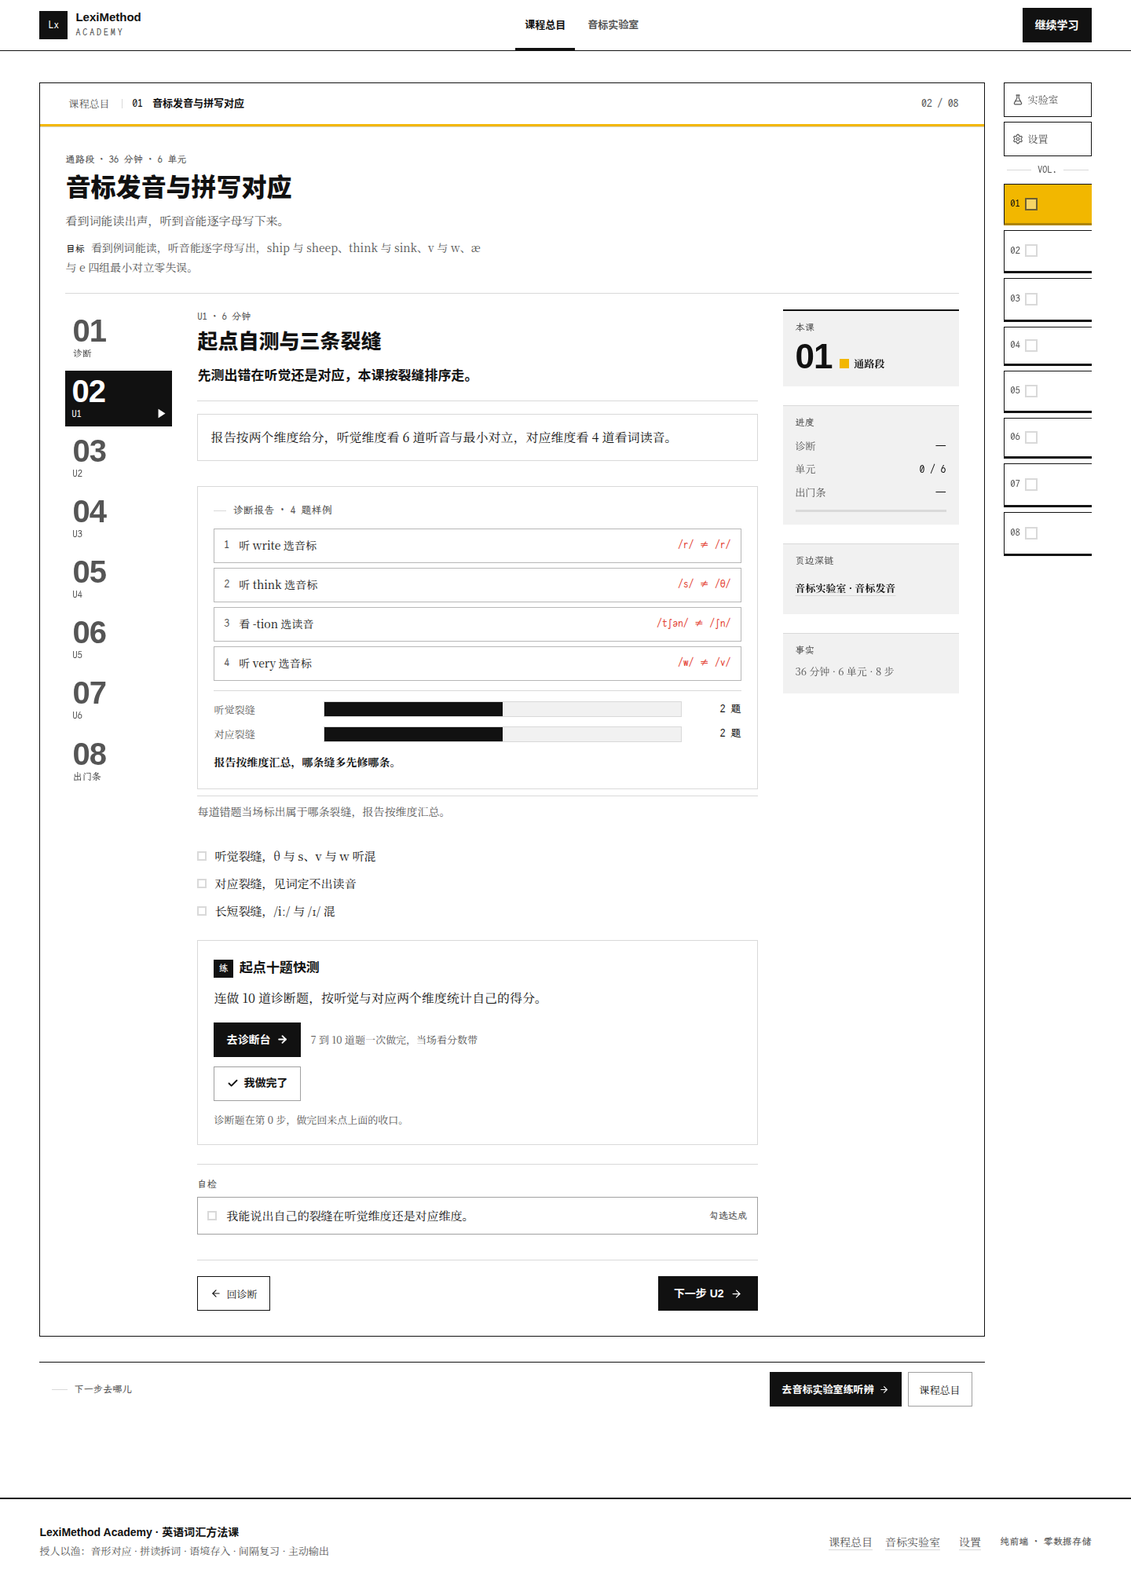
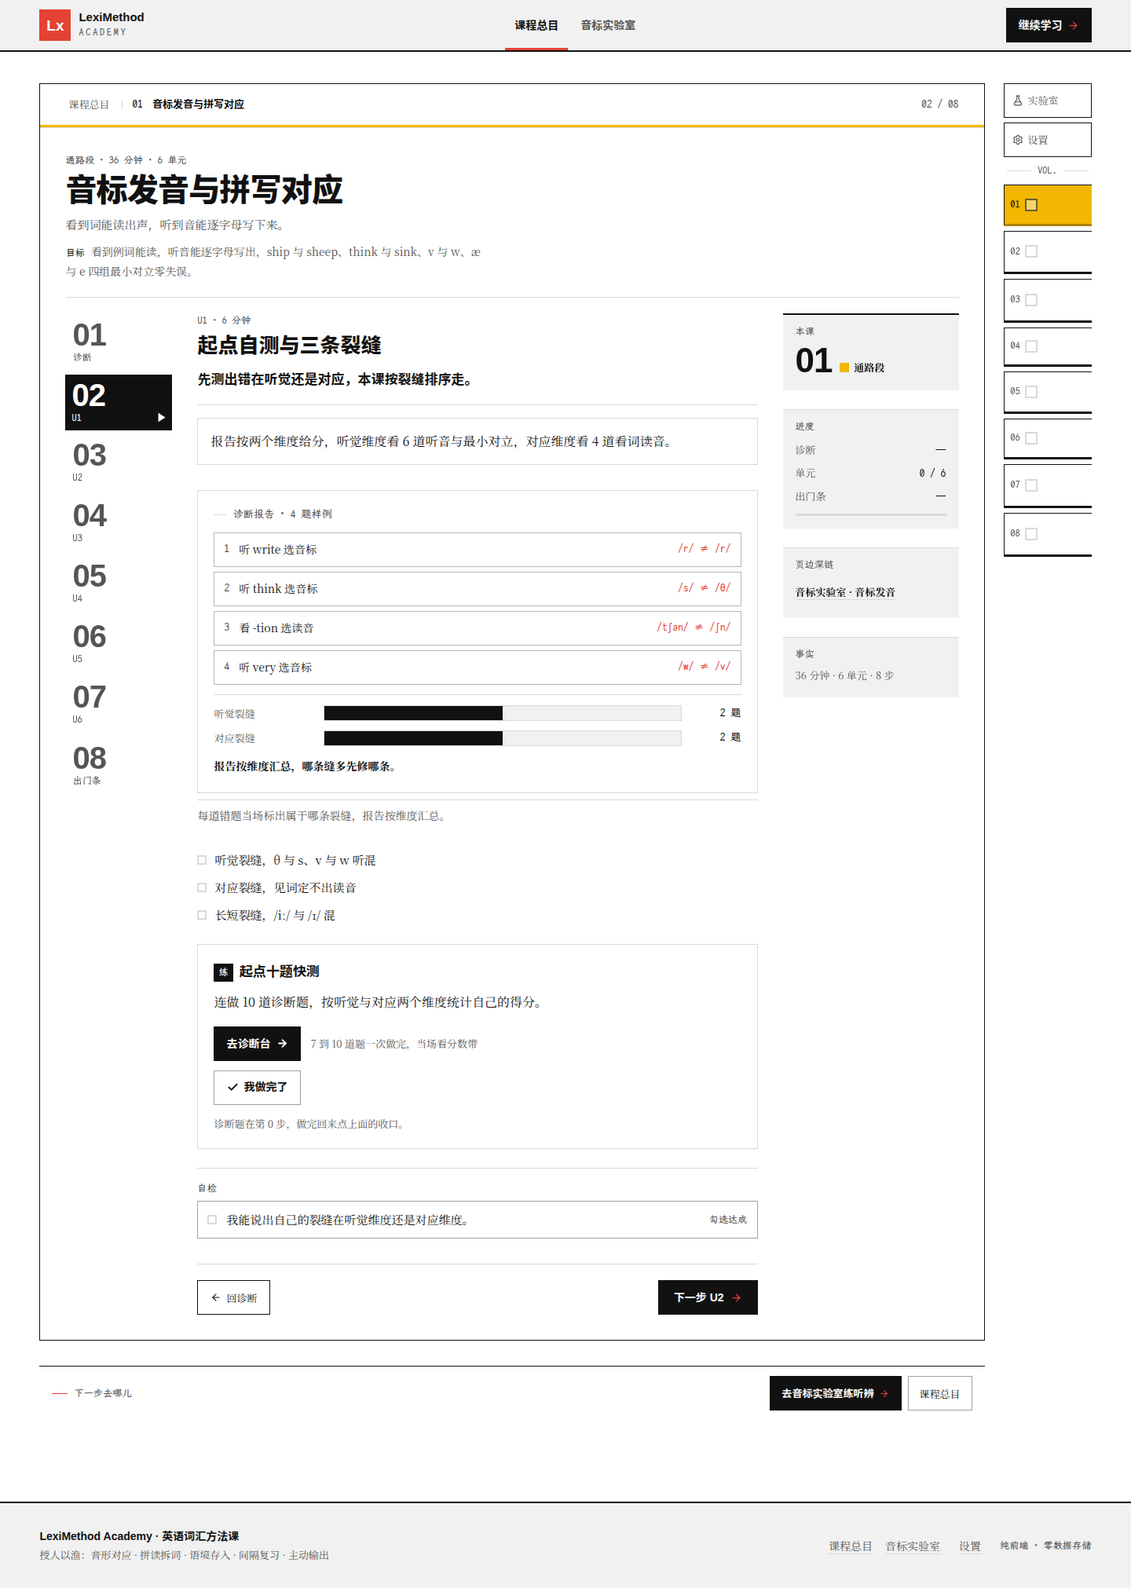
feat: 首屏焦点层——黑块锚点、灰场分区与指路红双域
- 方向契约先行：briefs 新增「焦点层修订」节（用户四策略全批：黑块锚点/红色指路/灰场分区/纯排印层级）
- 黑块锚点：总目首屏整宽 #111 继续面板，顶缘 deepen(段色) 8px，巨号课号 64/72px，白底按钮红箭头，intro-next 原位保留
- 纯排印：总目 h1 海报级 44→64→72px（-0.03em），章题 32px，行内课号 18px，课程页 h1 40px，主导航 14px
- 灰场分区：报头/移动菜单/页脚/底导/分段章带铺 #F1F1F1，报头下线与页脚压顶 2px 墨，底导去收窄满宽，白行浮灰场
- 指路红双域：字标红方块反白 Lx（19px/800 大字级 4.12:1）、导航与底导当前 3px 红标、章节带缺省红细条、全站主行动红箭头（黑底 4.44:1）；勘误域照旧，红不作按钮实底
- 终审三轮：四面 resolved 零回归，disposition ship；门禁 tsc 0 · accept 61/61 · audit:floor 全零 · 课程 0/0 · 数据 3926 · build 2.68s · 体积达标 · smoke 通过

diff --git a/src/pages/MethodList.tsx b/src/pages/MethodList.tsx
@@ -68,6 +68,16 @@ export default function MethodList() {
       ? `/methods/${courses[0].id}?step=1`
       : `/methods/${nextCourse.id}?step=${target.step}`;
 
+  /** 黑块面板的机器嗓音前缀：诊断 / 单元 / 出门条 / 已收口 */
+  const stepText =
+    target.kind === 'diag'
+      ? '开场诊断'
+      : target.kind === 'unit'
+        ? `单元 U${target.step}`
+        : target.kind === 'exit'
+          ? '出门条'
+          : '已收口';
+
   const grouped = STAGE_ORDER.map((stage) => ({
     stage,
     list: courses.filter((c) => c.stage === stage),
@@ -91,40 +101,50 @@ export default function MethodList() {
       />
 
       <div className="px-5 py-6 md:px-8 md:py-8">
-        {/* 首屏题名：文档本身即第一屏 */}
+        {/* 首屏题名：海报级字级，文档本身即第一屏 */}
         <header className="border-b border-rule pb-5">
           <p className="machine text-[12px] text-ink2">
             8 门课 · 48 单元 · 约 {totalMin} 分钟
           </p>
-          <h1 className="mt-1.5 font-display text-[26px] font-extrabold leading-tight text-ink md:text-[32px]">
+          <h1 className="mt-2 font-display text-[44px] font-extrabold leading-[0.95] tracking-[-0.03em] text-balance text-ink md:text-[64px] xl:text-[72px]">
             课程总目
           </h1>
-          <p className="mt-2 max-w-[68ch] text-[15px] leading-[1.85] text-ink2">
+          <p className="mt-3 max-w-[68ch] text-[15px] leading-[1.85] text-ink2">
             八门课沿一条路径排开。每门课先做开场诊断，再走五到六个短单元，最后交一张出门条，学完即收口。
           </p>
         </header>
 
-        {/* 本页唯一主行动 */}
-        <div className="mt-5 flex flex-wrap items-center gap-x-6 gap-y-4 border-b border-rule pb-5">
-          <Link
-            to={primaryTo}
-            onClick={() => playSfx('click')}
-            data-testid="intro-next"
-            className="inline-flex min-h-[44px] items-center gap-2 bg-ink px-5 py-2.5 font-display text-sm font-bold text-milk transition-colors hover:bg-ink2 active:translate-y-px"
-          >
-            {primaryLabel(nextCourse, target)} <ArrowRight size={15} aria-hidden />
-          </Link>
-          <div className="min-w-0">
-            <p className="machine text-[12px] text-ink2">
-              {String(nextCourse.order).padStart(2, '0')} · {nextCourse.durationMin} 分钟 ·{' '}
-              {nextCourse.units.length} 单元
-            </p>
-            <p className="truncate font-display text-sm font-bold text-ink">{nextCourse.title}</p>
+        {/* 黑块锚点：全页唯一主导色场，眼睛进门的落点——顶缘段色细条 + 巨号课号 + 白底按钮红箭头 */}
+        <section aria-label="继续学习" className="mt-5 bg-ink text-milk">
+          <div
+            aria-hidden
+            className="h-2"
+            style={{ background: deepen(STAGE_META[nextCourse.stage].hue) }}
+          />
+          <div className="flex flex-col gap-4 px-5 py-5 sm:flex-row sm:items-center sm:justify-between sm:gap-8 md:px-6">
+            <div className="flex min-w-0 items-center gap-4 md:gap-5">
+              <span className="font-display text-[64px] font-extrabold leading-none tracking-[-0.03em] tabular-nums md:text-[72px]">
+                {String(nextCourse.order).padStart(2, '0')}
+              </span>
+              <div className="min-w-0">
+                <p className="machine text-[12px] text-milk/70">
+                  {stepText} · {nextCourse.durationMin} 分钟 · {nextCourse.units.length} 单元
+                </p>
+                <p className="truncate font-display text-lg font-bold text-milk md:text-[26px]">
+                  {nextCourse.title}
+                </p>
+              </div>
+            </div>
+            <Link
+              to={primaryTo}
+              onClick={() => playSfx('click')}
+              data-testid="intro-next"
+              className="inline-flex min-h-[44px] w-full items-center justify-center gap-2 bg-milk px-5 py-2.5 font-display text-sm font-bold text-ink transition-colors hover:bg-rule active:translate-y-px sm:w-auto"
+            >
+              {primaryLabel(nextCourse, target)} <ArrowRight size={15} className="text-errata" aria-hidden />
+            </Link>
           </div>
-          <p className="machine ml-auto text-[12px] text-ink2">
-            已收口 {doneCount} / {courses.length}
-          </p>
-        </div>
+        </section>
 
         {/* 四段路径分章带（段色细条点缀）+ 课程行 */}
         {grouped.map(({ stage, list }) => {
@@ -132,14 +152,14 @@ export default function MethodList() {
           const stageMin = list.reduce((a, c) => a + c.durationMin, 0);
           return (
             <section key={stage} aria-label={`${meta.label}段课程`} className="mt-8">
-              {/* 分章带：白底墨字，段色只上左侧方片与下缘 3px 细条；章题必须压过行题 */}
+              {/* 分章带：灰场底墨字（图底分层），段色只上左侧方片与下缘 3px 细条；章题必须压过行题 */}
               <div
-                className="flex flex-wrap items-baseline justify-between gap-x-4 gap-y-1 bg-leaf px-4 py-3"
+                className="flex flex-wrap items-baseline justify-between gap-x-4 gap-y-1 bg-under px-4 py-3"
                 style={{ borderBottom: `3px solid ${deepen(meta.hue)}` }}
               >
                 <span className="flex items-baseline gap-2.5">
                   <span aria-hidden className="h-3 w-3 translate-y-px" style={{ background: meta.hue }} />
-                  <h2 className="font-display text-2xl font-extrabold leading-none text-ink">
+                  <h2 className="font-display text-[26px] font-extrabold leading-none tracking-[-0.02em] text-ink md:text-[32px]">
                     {meta.label}
                   </h2>
                 </span>
@@ -167,7 +187,7 @@ export default function MethodList() {
                         aria-label={`第 ${c.order} 课 ${c.title}，${status}`}
                       >
                         <div className="flex flex-wrap items-center gap-x-3 gap-y-2">
-                          <span className="machine text-[15px] font-bold text-ink" aria-hidden>
+                          <span className="machine text-[18px] font-bold text-ink" aria-hidden>
                             {String(c.order).padStart(2, '0')}
                           </span>
                           <h3 className="font-display text-[17px] font-bold leading-snug text-ink md:text-[19px]">

diff --git a/src/components/layout/AppShell.tsx b/src/components/layout/AppShell.tsx
@@ -1,6 +1,6 @@
 import { useEffect, useState } from 'react';
 import { Link, useLocation } from 'react-router-dom';
-import { BookOpen, AudioLines, Settings as SettingsIcon, Menu, X } from 'lucide-react';
+import { BookOpen, AudioLines, Settings as SettingsIcon, Menu, X, ArrowRight } from 'lucide-react';
 import type { LucideIcon } from 'lucide-react';
 import BottomNav from '@/components/layout/BottomNav';
 import { playSfx } from '@/hooks/useSfx';
@@ -17,7 +17,7 @@ export const NAV_ITEMS: NavItem[] = [
 /** 全部目的地：移动菜单与页脚使用 */
 export const ALL_NAV_ITEMS: NavItem[] = [...NAV_ITEMS, { to: '/settings', label: '设置', icon: SettingsIcon }];
 
-/** 字标印记：实心墨方反白 Lx（瑞士印记，方正如铅字块） */
+/** 字标印记：信号红方块反白 Lx（进门第一眼的指路红标，字级 ≥19px 特粗走大字级 3:1） */
 function Logo() {
   return (
     <Link
@@ -25,8 +25,8 @@ function Logo() {
       className="group flex min-h-[44px] min-w-[44px] items-center justify-center gap-2.5"
       aria-label="LexiMethod Academy 课程总目"
     >
-      <span className="flex h-9 w-9 items-center justify-center bg-ink">
-        <span className="machine text-[13px] font-bold text-milk">Lx</span>
+      <span className="flex h-10 w-10 items-center justify-center bg-errata">
+        <span className="font-display text-[19px] font-extrabold leading-none text-milk">Lx</span>
       </span>
       <span className="hidden flex-col leading-tight sm:flex">
         <span className="font-display text-[15px] font-bold text-ink underline decoration-transparent decoration-2 underline-offset-4 transition-colors group-hover:decoration-ink">
@@ -54,8 +54,8 @@ export default function AppShell({ children }: { children: React.ReactNode }) {
 
   return (
     <div className="relative z-10 flex min-h-screen flex-col pb-[66px] lg:pb-0">
-      {/* 报头：白纸地与页面同层，下缘 1px 实黑线（瑞士报头）；当前项 3px 墨条（形状通道） */}
-      <header className="paper-chrome sticky top-0 z-50 border-b border-ink bg-milk">
+      {/* 报头：灰场地带（图底分层）+ 下缘 2px 实黑线；当前项 3px 红标（指路） */}
+      <header className="paper-chrome sticky top-0 z-50 border-b-2 border-ink bg-under">
         <div className="container-page flex h-16 items-center justify-between gap-4">
           <div className="flex items-center gap-3">
             <Logo />
@@ -69,26 +69,27 @@ export default function AppShell({ children }: { children: React.ReactNode }) {
                 <Link
                   key={item.to}
                   to={item.to}
-                  className={`relative flex h-full items-center whitespace-nowrap px-3 font-display text-[13px] font-bold transition-colors ${
+                  className={`relative flex h-full items-center whitespace-nowrap px-3 font-display text-sm font-bold transition-colors ${
                     on ? 'text-ink' : 'text-ink2 hover:text-ink'
                   }`}
                   aria-current={on ? 'page' : undefined}
                 >
                   {item.label}
-                  {on && <span aria-hidden className="absolute inset-x-0 bottom-0 h-[3px] bg-ink" />}
+                  {on && <span aria-hidden className="absolute inset-x-0 bottom-0 h-[3px] bg-errata" />}
                 </Link>
               );
             })}
           </nav>
 
           <div className="flex items-center gap-2">
-            {/* 每屏唯一主行动（报头右）：ink 实底 milk 字；朱红永不充当主按钮 */}
+            {/* 每屏唯一主行动（报头右）：ink 实底 milk 字，红只上箭头（指路），不充当按钮底 */}
             <Link
               to="/methods"
               onClick={() => playSfx('click')}
               className="hidden min-h-[44px] items-center gap-1.5 bg-ink px-4 py-2 font-display text-sm font-bold text-milk transition-colors hover:bg-ink2 active:translate-y-px sm:inline-flex"
             >
               继续学习
+              <ArrowRight size={15} className="text-errata" aria-hidden />
             </Link>
             <button
               type="button"
@@ -104,7 +105,7 @@ export default function AppShell({ children }: { children: React.ReactNode }) {
 
         {/* 移动端菜单：铰链步进（无淡入，世界唯一过渡）；下缘 2px 实黑收口 */}
         {open && (
-          <nav className="hinge border-b-2 border-ink bg-milk lg:hidden" aria-label="移动导航">
+          <nav className="hinge border-b-2 border-ink bg-under lg:hidden" aria-label="移动导航">
             <div className="container-page grid grid-cols-2 gap-2 py-3">
               {ALL_NAV_ITEMS.map((item) => {
                 const Icon = item.icon;
@@ -115,7 +116,7 @@ export default function AppShell({ children }: { children: React.ReactNode }) {
                     to={item.to}
                     aria-current={on ? 'page' : undefined}
                     className={`hinge flex min-h-[44px] items-center gap-2 border-b-[3px] px-3 py-3 font-display text-sm font-bold ${
-                      on ? 'border-b-ink bg-under text-ink' : 'border-b-transparent text-ink2 hover:text-ink'
+                      on ? 'border-b-errata bg-milk text-ink' : 'border-b-transparent text-ink2 hover:text-ink'
                     }`}
                   >
                     <Icon size={16} aria-hidden />
@@ -130,8 +131,8 @@ export default function AppShell({ children }: { children: React.ReactNode }) {
 
       <main className="flex-1">{children}</main>
 
-      {/* 页脚：2px 实黑压顶（瑞士版面的段落重线），机器嗓音刊记 */}
-      <footer className="paper-chrome mt-16 border-t-2 border-ink bg-milk">
+      {/* 页脚：灰场收尾（与报头同灰）+ 2px 实黑压顶，机器嗓音刊记 */}
+      <footer className="paper-chrome mt-16 border-t-2 border-ink bg-under">
         <div className="container-page flex flex-col gap-3 py-8 text-sm text-ink2 md:flex-row md:items-center md:justify-between">
           <div className="flex flex-col gap-1">
             <span className="font-display text-sm font-bold text-ink">LexiMethod Academy · 英语词汇方法课</span>

diff --git a/src/components/layout/BottomNav.tsx b/src/components/layout/BottomNav.tsx
@@ -14,6 +14,7 @@ const ITEMS: Item[] = [
 /**
  * 移动端底部导航：小屏下最容易丢方向，主目的地常驻、当前项高亮。
  * 桌面端（≥1024px）由顶部导航承担，本条隐藏。
+ * 灰场地带（与报头、页脚同灰），满宽铺开不收窄。
  */
 export default function BottomNav() {
   const { pathname } = useLocation();
@@ -26,9 +27,9 @@ export default function BottomNav() {
     <nav
       aria-label="底部导航"
       data-testid="bottom-nav"
-      className="paper-chrome fixed inset-x-0 bottom-0 z-40 border-t border-ink bg-milk lg:hidden"
+      className="paper-chrome fixed inset-x-0 bottom-0 z-40 border-t border-ink bg-under lg:hidden"
     >
-      <ul className="mx-auto grid max-w-lg grid-cols-3">
+      <ul className="grid w-full grid-cols-3">
         {ITEMS.map((item) => {
           const Icon = item.icon;
           const on = active(item);
@@ -43,8 +44,8 @@ export default function BottomNav() {
               >
                 <Icon size={18} aria-hidden />
                 {item.label}
-                {/* 形状通道：3px 墨色刻线，当前项不只靠颜色 */}
-                {on && <span aria-hidden className="absolute inset-x-3 bottom-0 h-[3px] bg-ink" />}
+                {/* 形状通道：3px 红标（指路），当前项不只靠颜色 */}
+                {on && <span aria-hidden className="absolute inset-x-3 bottom-0 h-[3px] bg-errata" />}
               </Link>
             </li>
           );

diff --git a/src/components/layout/NextStepBar.tsx b/src/components/layout/NextStepBar.tsx
@@ -39,6 +39,7 @@ function derive(pathname: string): { primary: Target; secondary: Target } {
 /**
  * 页面底部的「下一步去哪儿」：每页一个主推进（ink 实底，全页唯一主行动）
  * + 一个相关去向 + 回总目，保证任何一页都有明确去向（The Single Focus Rule）。
+ * 指路红只上两处：前缀短线与主行动箭头，不动按钮实底。
  */
 export default function NextStepBar() {
   const { pathname } = useLocation();
@@ -53,7 +54,7 @@ export default function NextStepBar() {
       aria-label="下一步引导"
     >
       <span className="flex items-center gap-2 machine text-[12px] text-ink2">
-        <span className="h-px w-5 bg-rule" aria-hidden />
+        <span className="h-px w-5 bg-errata" aria-hidden />
         下一步去哪儿
       </span>
       <div className="flex flex-wrap items-center gap-2">
@@ -61,7 +62,7 @@ export default function NextStepBar() {
           to={primary.to}
           className="inline-flex min-h-[44px] items-center gap-1.5 bg-ink px-4 py-2 font-display text-[13px] font-bold text-milk transition-colors hover:bg-ink2 active:translate-y-px"
         >
-          {primary.label} <ArrowRight size={13} aria-hidden />
+          {primary.label} <ArrowRight size={13} className="text-errata" aria-hidden />
         </Link>
         <Link
           to={secondary.to}

diff --git a/src/components/edu/RunningHead.tsx b/src/components/edu/RunningHead.tsx
@@ -1,7 +1,7 @@
 import type { ReactNode } from 'react';
 
 /**
- * 章节带（瑞士报头行）：发丝线压顶 + 可选段色 3px 细条（当前段导色，点缀）。
+ * 章节带（瑞士报头行）：发丝线压顶 + 3px 细条（缺省信号红＝指路索引，课程页传段色）。
  * 左载「我在全书哪里」，右载机器嗓音步数——读者永远知道自己在哪。
  */
 export default function EduRunningHead({
@@ -12,7 +12,7 @@ export default function EduRunningHead({
 }: {
   left: ReactNode;
   right?: ReactNode;
-  /** 当前段导色（hex），给下缘 3px 细条；缺省为墨色 */
+  /** 当前段导色（hex），给下缘 3px 细条；缺省为信号红（指路索引） */
   accent?: string;
   className?: string;
 }) {
@@ -22,7 +22,7 @@ export default function EduRunningHead({
         <div className="flex min-w-0 flex-wrap items-center gap-x-3 gap-y-1 text-[13px] font-medium text-ink2">{left}</div>
         {right && <div className="flex flex-wrap items-center gap-2">{right}</div>}
       </div>
-      <div aria-hidden className="h-[3px]" style={{ background: accent ?? '#111111' }} />
+      <div aria-hidden className="h-[3px]" style={{ background: accent ?? '#E34234' }} />
     </div>
   );
 }

diff --git a/src/pages/MethodCourse.tsx b/src/pages/MethodCourse.tsx
@@ -129,7 +129,7 @@ export default function MethodCourse() {
           <p className="machine text-[12px] text-ink2">
             {stage.label}段 · {course.durationMin} 分钟 · {course.units.length} 单元
           </p>
-          <h1 className="mt-1.5 font-display text-[26px] font-extrabold leading-tight text-ink md:text-[32px]">
+          <h1 className="mt-1.5 font-display text-[30px] font-extrabold leading-[1.1] tracking-[-0.02em] text-ink md:text-[40px]">
             {course.title}
           </h1>
           <p className="mt-2 max-w-[68ch] text-[15px] leading-[1.85] text-ink2">{course.subtitle}</p>
@@ -179,7 +179,7 @@ export default function MethodCourse() {
                     className="hinge inline-flex min-h-[44px] items-center justify-center gap-2 bg-ink px-5 py-2.5 font-display text-sm font-bold text-milk hover:bg-ink2 active:translate-y-px sm:ml-auto"
                   >
                     {step === 6 ? '去出门条' : `下一步 U${step + 1}`}
-                    <ArrowRight size={15} aria-hidden />
+                    <ArrowRight size={15} className="text-errata" aria-hidden />
                   </button>
                 </div>
               </>

diff --git a/src/components/course/DiagnosticView.tsx b/src/components/course/DiagnosticView.tsx
@@ -49,7 +49,7 @@ export default function DiagnosticView({
             data-testid="diag-enter-u1"
             className="hinge inline-flex min-h-[44px] items-center gap-2 bg-ink px-5 py-2.5 font-display text-sm font-bold text-milk hover:bg-ink2 active:translate-y-px"
           >
-            进入 U1 <ArrowRight size={15} aria-hidden />
+            进入 U1 <ArrowRight size={15} className="text-errata" aria-hidden />
           </button>
         </div>
       </div>

diff --git a/.impeccable/surfaces/tutorial.md b/.impeccable/surfaces/tutorial.md
@@ -1,3 +1,10 @@
+---
+version: 1
+slug: "tutorial"
+primary_target: "tutorial"
+related_targets: []
+---
+
 # 全站（目录 + 课程步进 + 音标实验室 + 设置 + 壳）
 
 ## Scope and visitor mode
@@ -47,16 +54,3 @@ FINISH: unreviewed and undocumented is unfinished; this build ends with the fini
 - 无 comp 轮；首屏与签名交互的承诺由 finish reviewer 对照本契约审计。
 - DESIGN.md 与 `.impeccable/design.json` 由 documenter 在 finish 阶段基于已建成世界整体替换（旧压膜叙述与 14 色 tonalRamps、leaf-edge 阴影、书口/打孔组件全部作废），不在构建前预写。
 - 旧世界签名件（ForeEdge 书口贴、PunchedDot 打孔、HingeCorner 掀角）保留结构与 aria，视觉改为瑞士语言（方角、编号、色细条）。
-
-## 焦点层修订（第二轮，用户四策略全批）
-
-用户判定首屏「色彩过于平面化，进入后不知道眼睛应该落在那里」。四条策略合并执行，作为对 OWN-WORLD / FIRST VIEWPORT 的修订增补（其余契约不变）：
-
-- **黑块锚点**：总目首屏在 h1 之下新增黑色「继续」面板——全页唯一主导色场：底 `#111111` 白字，巨号课号（display 64–72px 特粗），顶缘当前段色 6–8px 细条，白底按钮承载红箭头。眼睛进门先落这块黑。
-- **红色指路**：信号红 `#E34234` 语义从「只给勘误/对立/错」扩域为「指路与当前位置」双域统一（共同语义 = 看这里）：字标红块（Lx 反白，字号 ≥19px 特粗走大字级 3:1）、导航当前项红色 3px 标、章节带默认红细条、主行动方向箭头（浅底/黑底上均为图形级 ≥3:1）；勘误域照旧。DESIGN.md / design.json 规则同步改写。
-- **灰场分区**：`#F1F1F1` 作成区地——报头带、分段头带、页脚带铺灰，白行浮于灰场，图底分层；报头下线升 2px 黑。
-- **纯排印层级**：总目 h1 升海报级 `44 → 64 → 72px`（display 特粗、齐左、字距 -0.03em），段头 24 → 32px，行题守 19px，行内课号 15 → 18px；级差 ≥1.5 级。课程页 h1 同步升至 40px 级。
-
-### FIRST VIEWPORT 增补（总目）
-
-灰报头（红字标）之下三步阶梯：海报级 h1 → 黑块继续面板（唯一落点）→ 灰场段头 + 白行清单；视线从大到小落到行动上。移动端面板纵向堆叠，按钮满宽。
